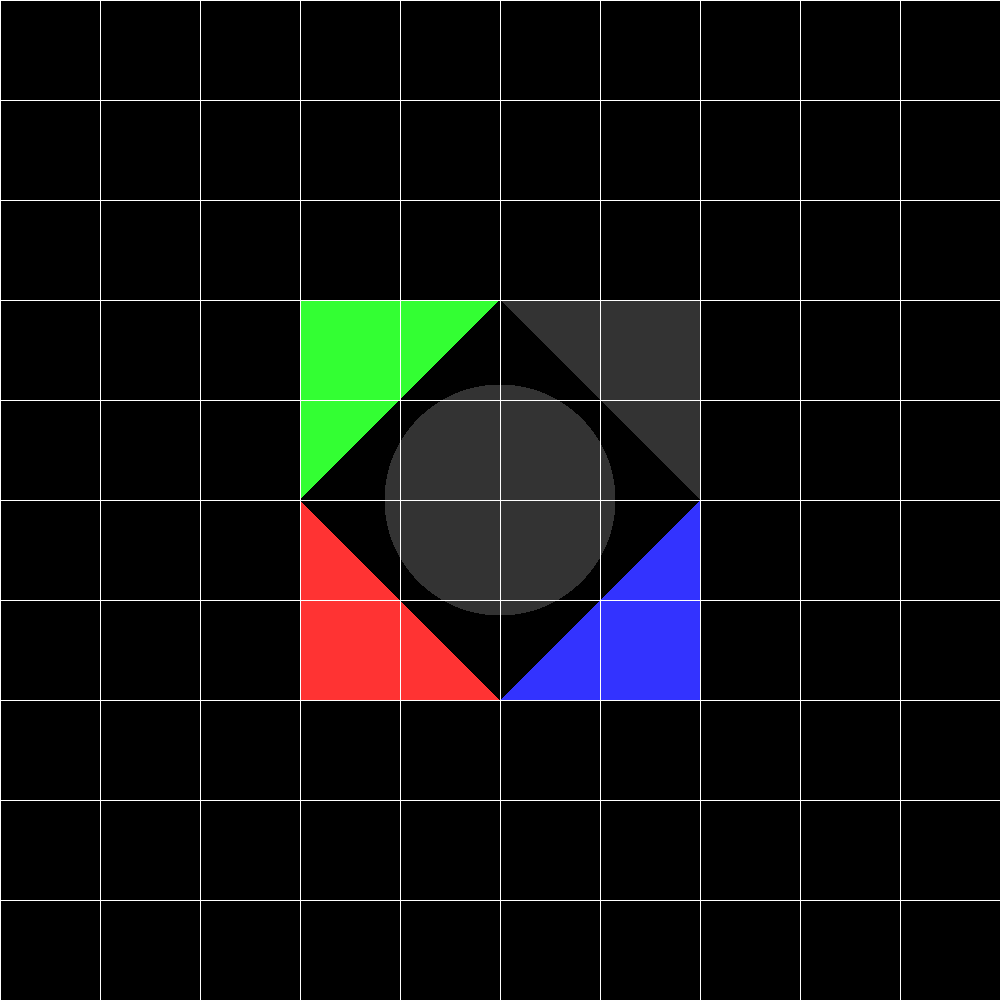
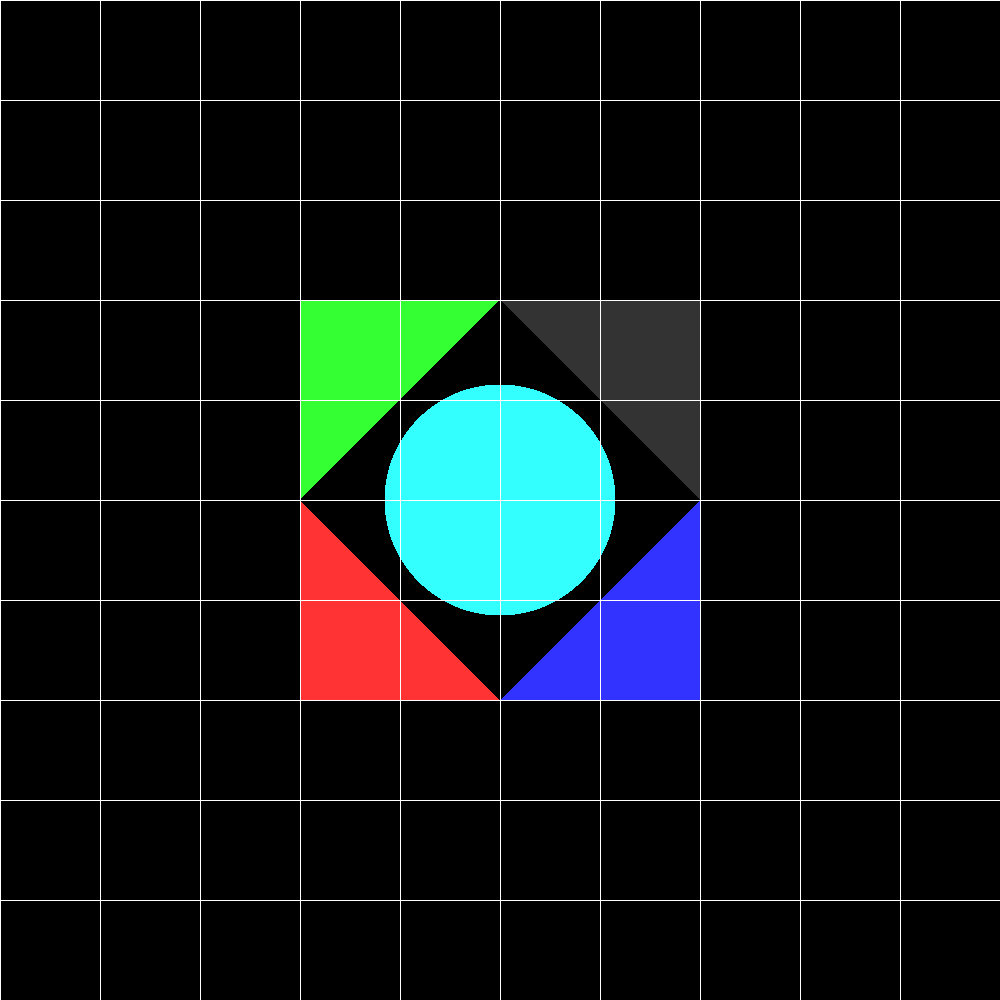
targil6_final

Changed region(s): [[0.372, 0.372, 0.62, 0.62]]

diff --git a/src/unittests/LightsTests.java b/src/unittests/LightsTests.java
@@ -140,8 +140,52 @@ public class LightsTests {
 		render.renderImage();
 		render.writeToImage();
 	}
-
 	
+	/**
+	 * Produce a picture of a sphere lighted by all types of lights
+	 */
+	@Test
+	public void sphereAllLights() {
+		scene1.geometries.add(sphere);
+		//add all types of light source
+		scene1.lights.add(new DirectionalLight(new Color(500, 300, 0), new Vector(-1, -1, -1))); //add directional light
+		scene1.lights.add(new PointLight(new Color(500, 300, 0), new Point3D(50, 50, 50), 1, 0.01, 0.00000001)//add point light
+				.setkL(0.01).setkQ(0.00000001));
+		scene1.lights.add(new SpotLight(new Color(500, 300, 0), new Point3D(30, 30, 50), 1, 0.01, 0.00000001, new Vector(3, 1, 0)) //add spot light
+				.setkL(0.01).setkQ(0.00000001));
+		ImageWriter imageWriter = new ImageWriter("SphereAllLights", 500, 500);
+		Render render = new Render()
+				.setImageWriter(imageWriter) 
+				.setCamera(camera1) 
+				.setRayTracer(new RayTracerBasic(scene1));
+		render.renderImage();
+		render.writeToImage();
+	}
+
+	/**
+	 * Produce a picture of a two triangles lighted by all types of lights
+	 */
+	@Test
+	public void trianglesAllLights() {
+		scene2.geometries.add(triangle1.setMaterial(new Material().setkD(0.5).setkS(0.5).setnShininess(300)),
+				triangle2.setMaterial(new Material().setkD(0.5).setkS(0.5).setnShininess(300)));
+		//add all types of light source
+		scene2.lights.add(new DirectionalLight(new Color(200, 150, 150), new Vector(0, 0, 20))); //add directional light
+		scene2.lights.add(new PointLight(new Color(500, 450, 250), new Point3D(10, 10, 130), 1, 0.5, 0.000005) //add point light
+				.setkL(0.5).setkQ(0.000005));
+		scene2.lights.add(new SpotLight(new Color(350, 250, 700), new Point3D(10, -10, -130), 1, 0.001, 0.0005, new Vector(2, -2, -1)) //add spot light
+				.setkL(0.001).setkQ(0.0005));
+
+		ImageWriter imageWriter = new ImageWriter("TrianglesAllLights", 500, 500);
+		Render render = new Render()//
+				.setImageWriter(imageWriter) //
+				.setCamera(camera2) //
+				.setRayTracer(new RayTracerBasic(scene2));
+		render.renderImage();
+		render.writeToImage();
+	}
+
+	/*
 	@Test
 	public void sphereSpotSharp() {
 		scene1.geometries.add(sphere);
@@ -155,11 +199,12 @@ public class LightsTests {
 				.setRayTracer(new RayTracerBasic(scene1));
 		render.renderImage();
 		render.writeToImage();
-	}
+	}*/
 
 	/**
 	 * Produce a picture of a two triangles lighted by a narrow spot light
 	 */
+	/*
 	@Test
 	public void trianglesSpotSharp() {
 		scene2.geometries.add(triangle1.setMaterial(new Material().setkD(0.5).setkS(0.5).setnShininess(300)),
@@ -174,6 +219,6 @@ public class LightsTests {
 				.setRayTracer(new RayTracerBasic(scene2));
 		render.renderImage();
 		render.writeToImage();
-	}
+	}*/
 
 }
